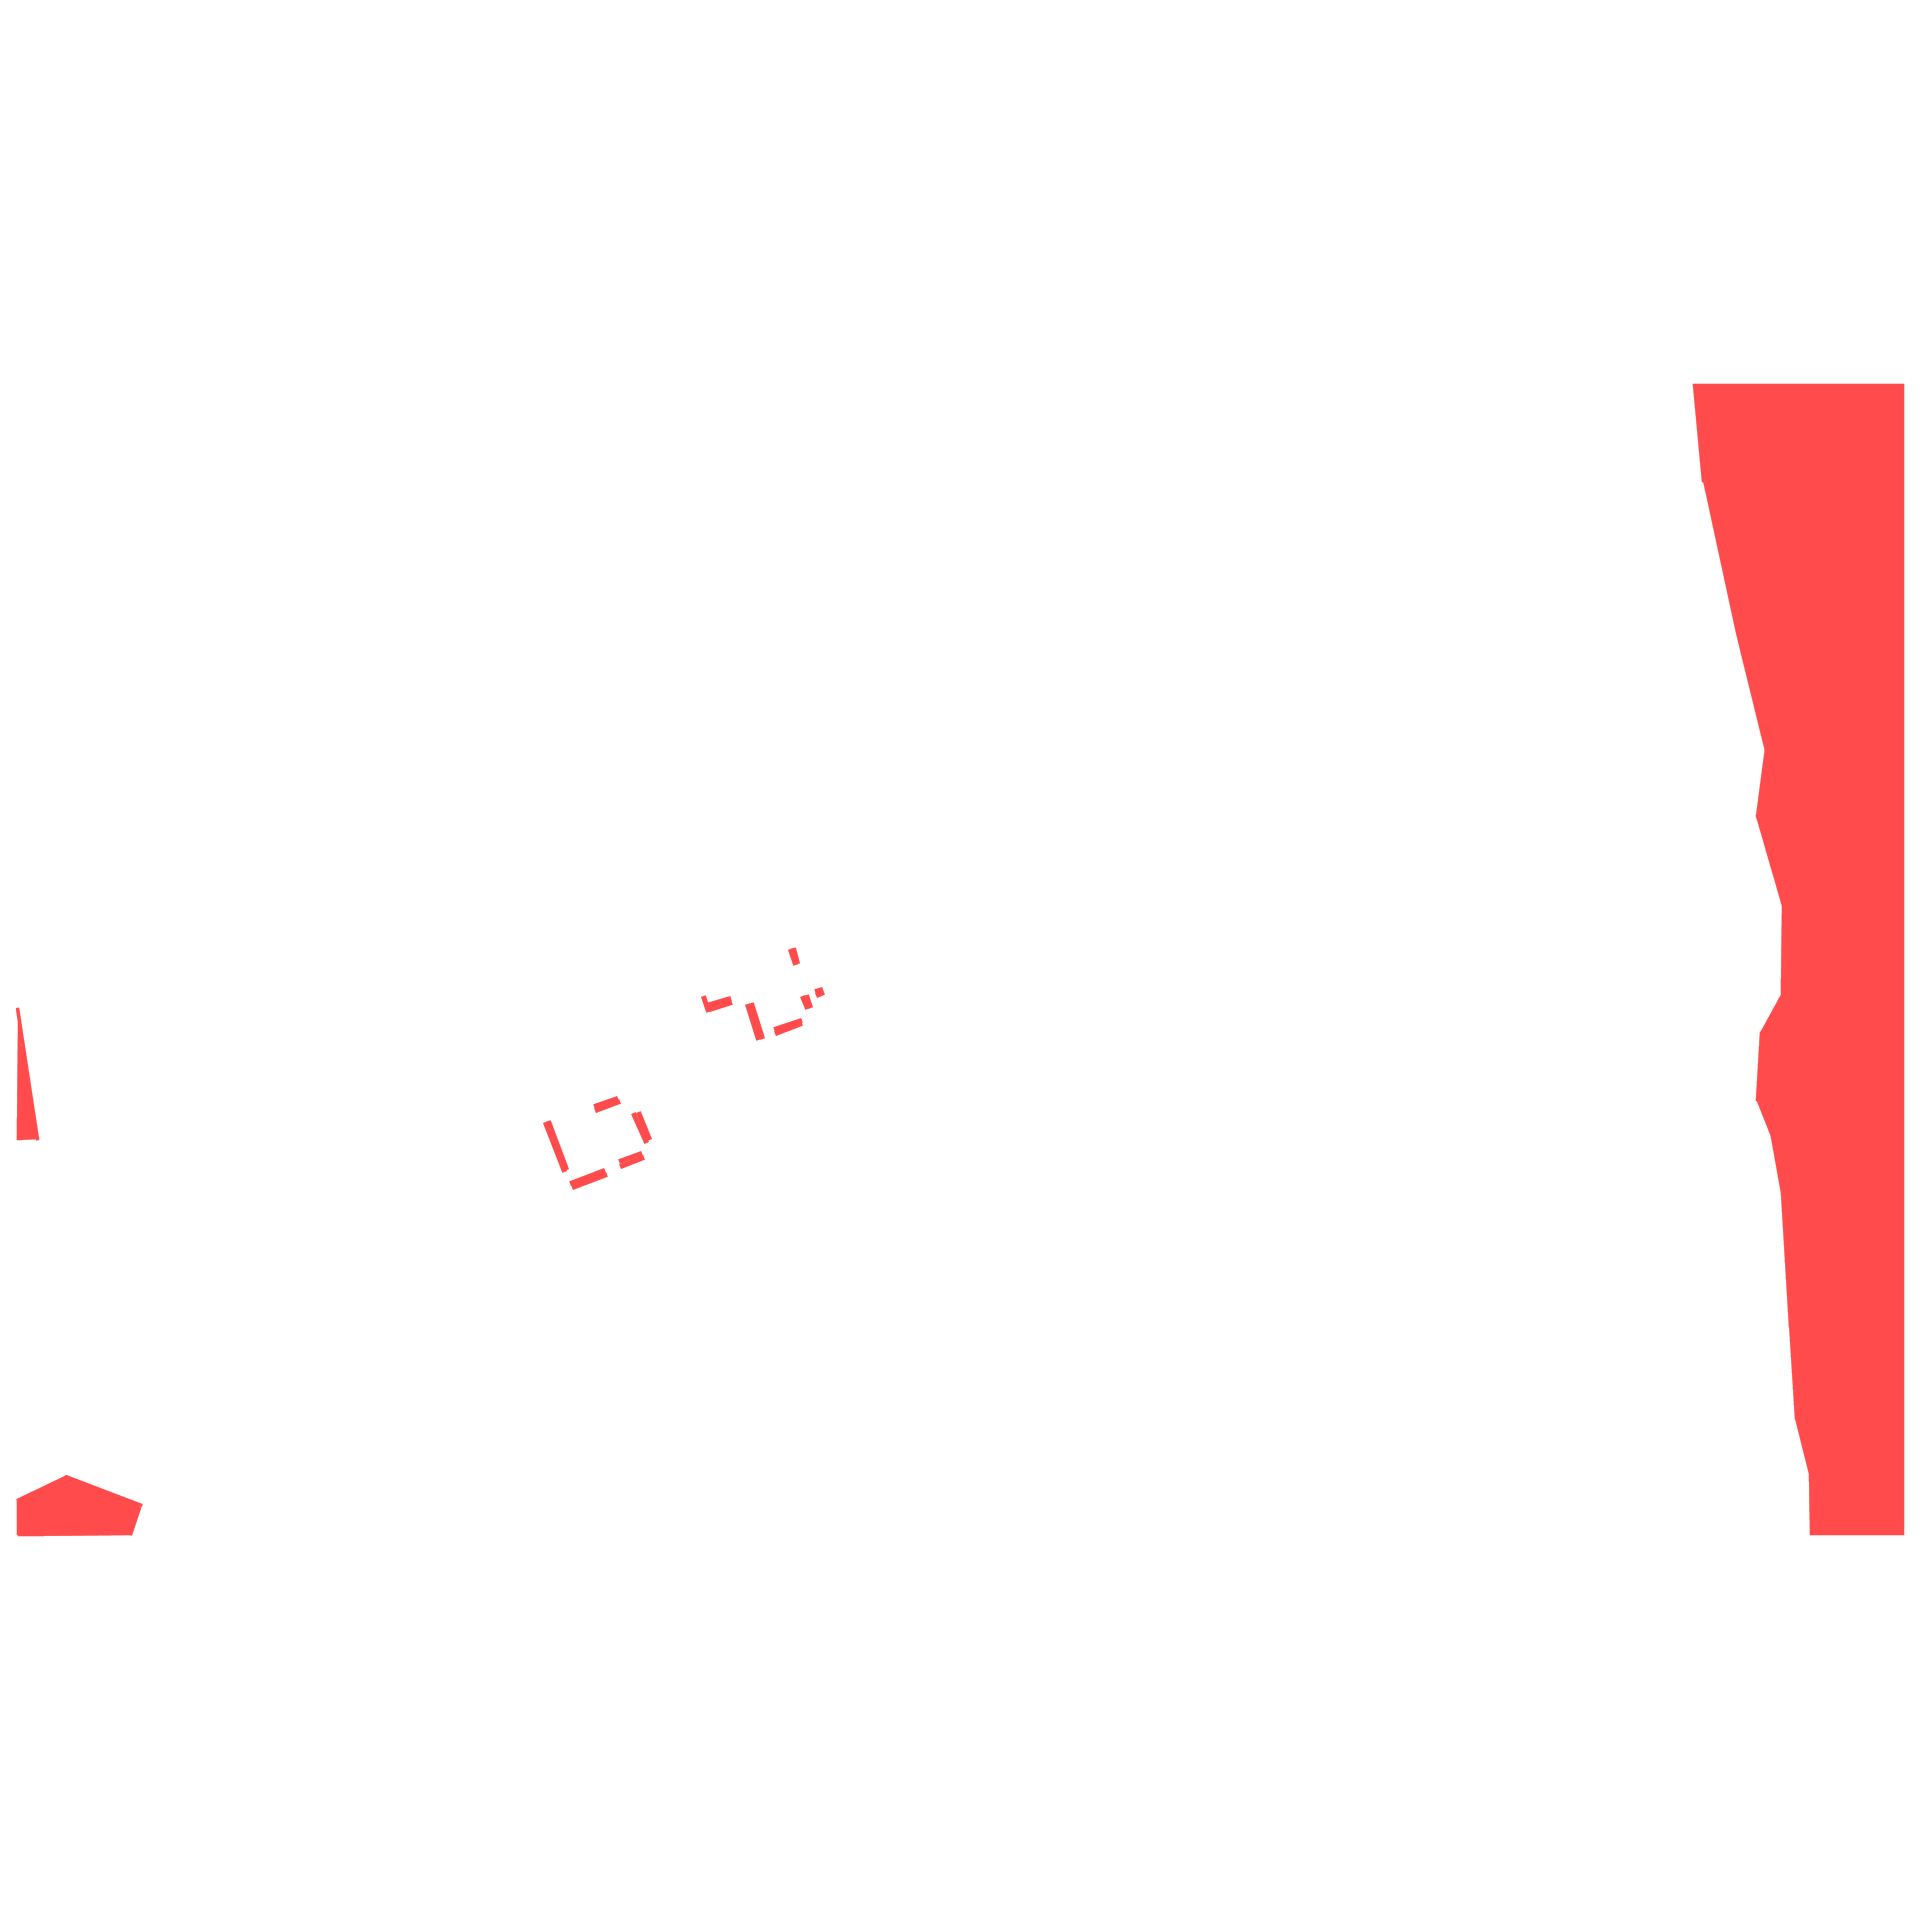
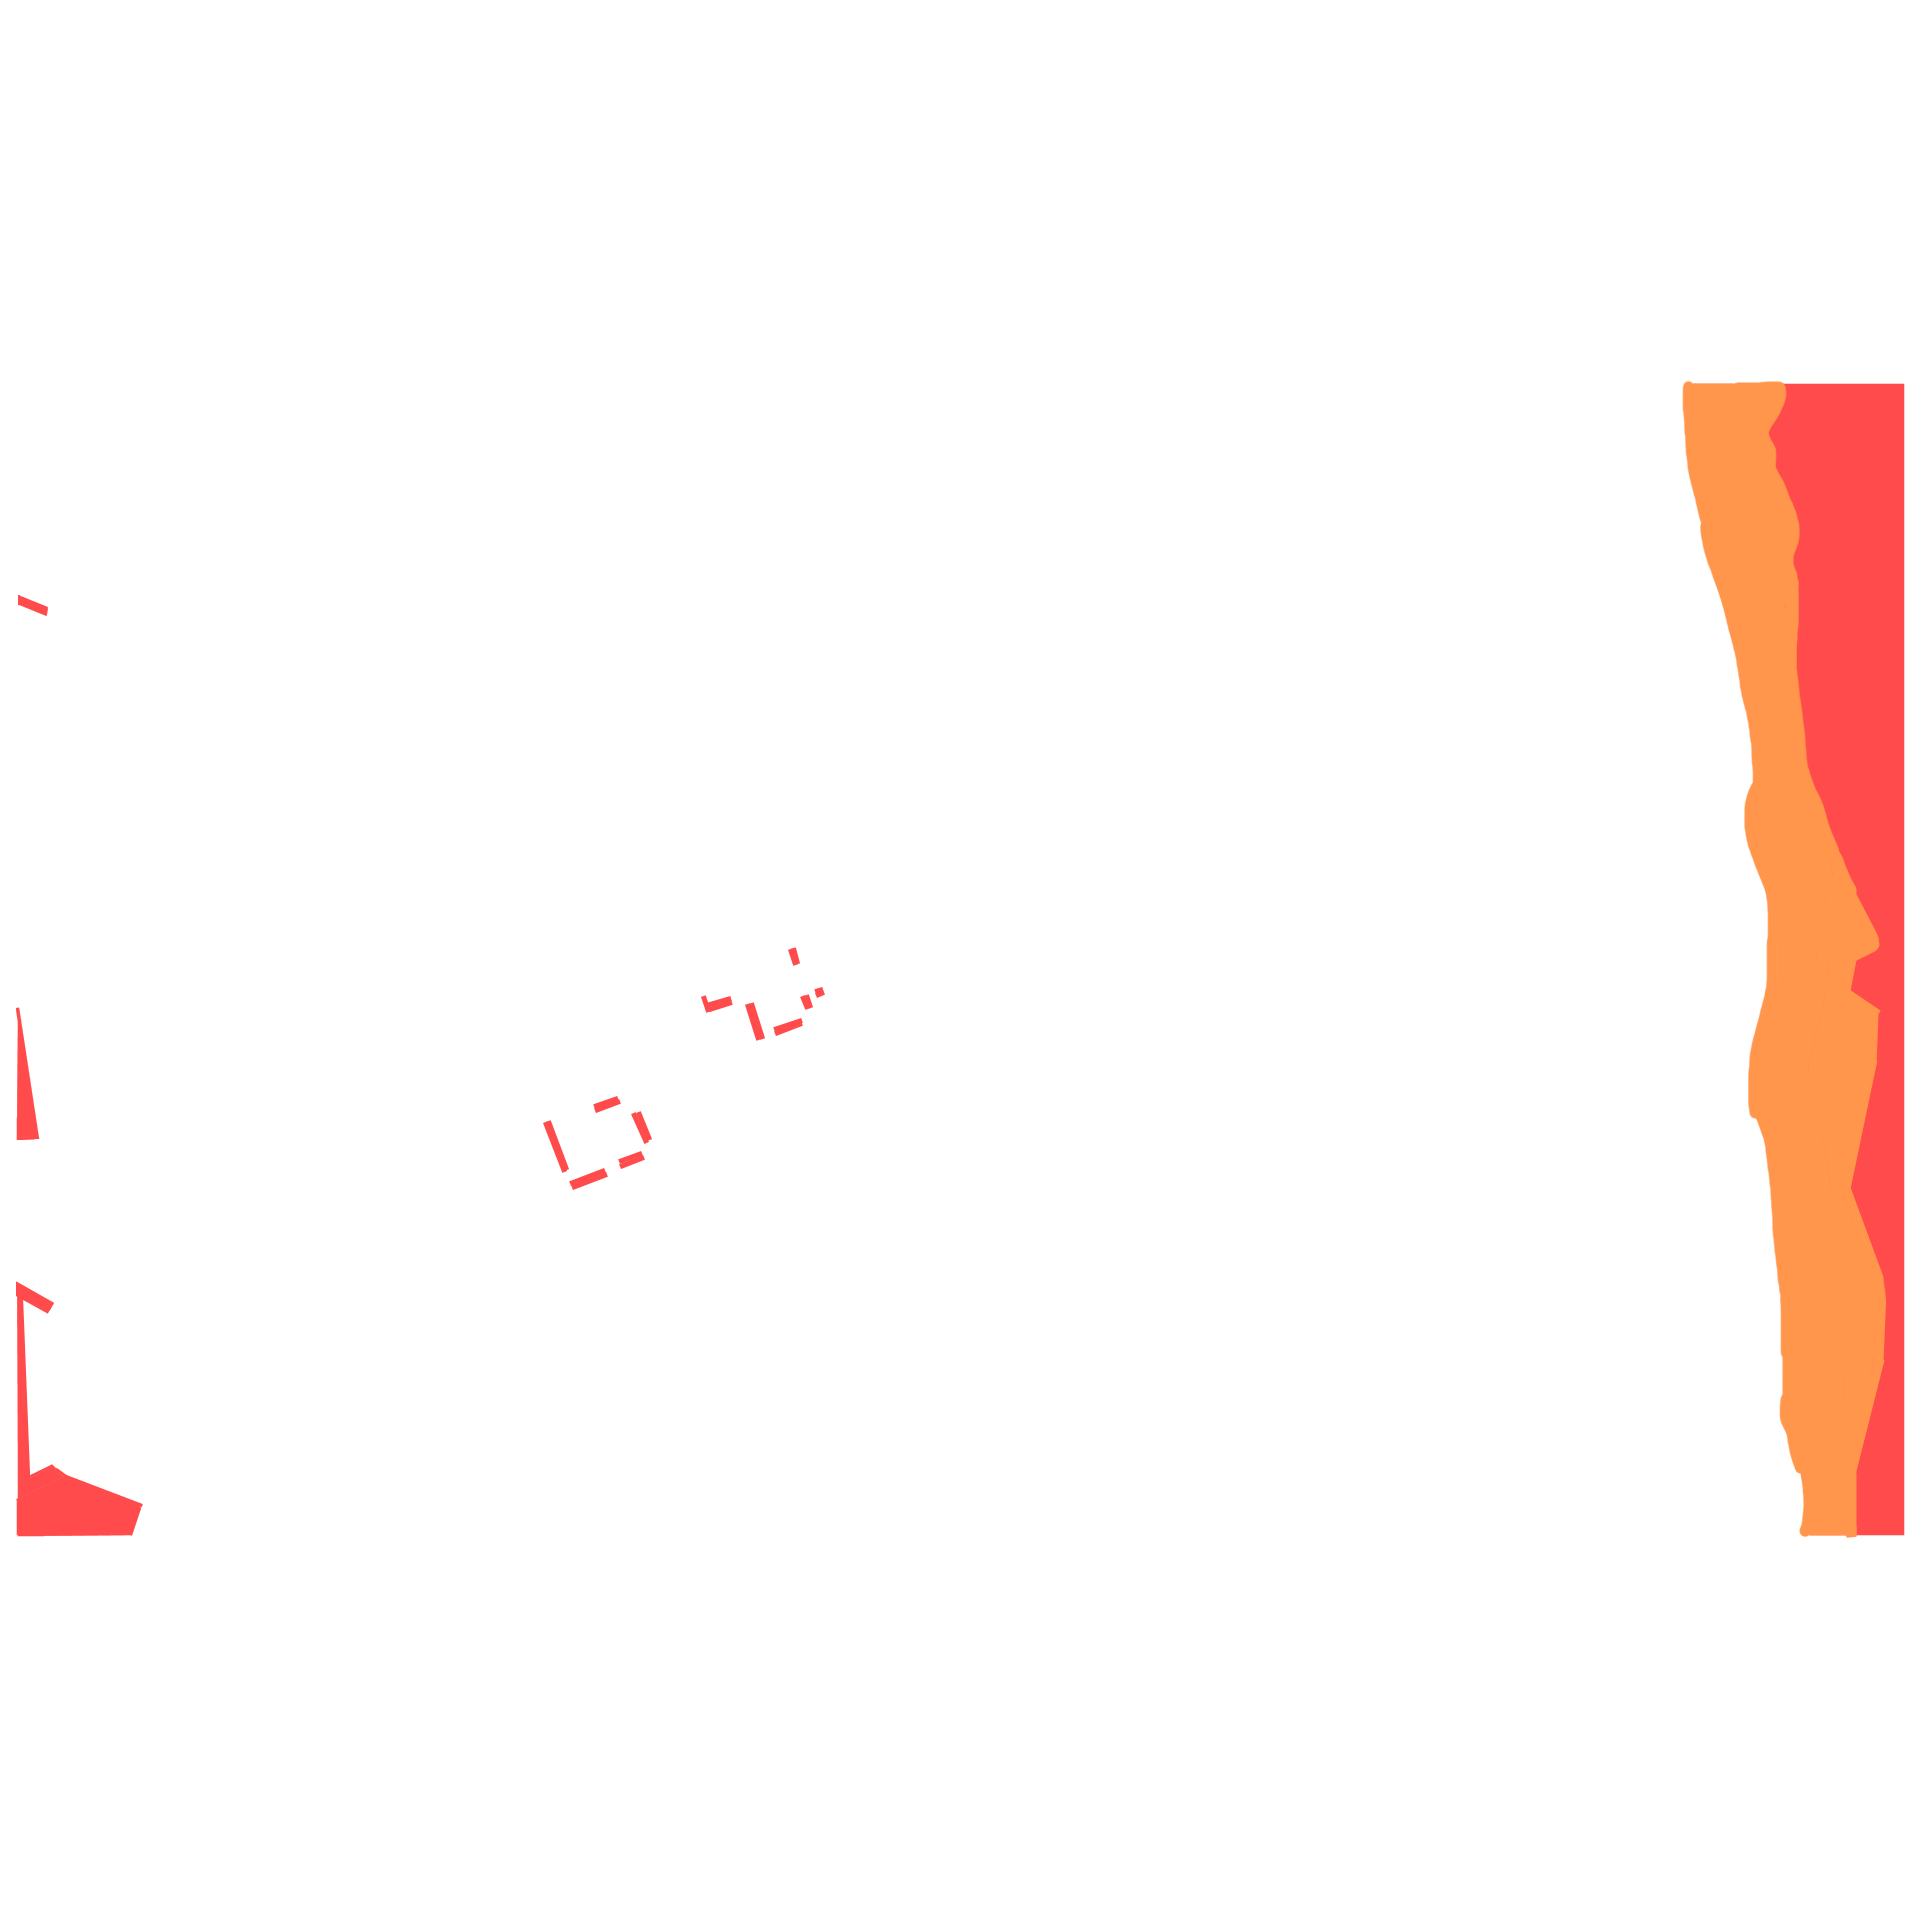
fix phl colors; link ecl; more map accessibility progress

Changed region(s): [[0.875, 0.1875, 1.0, 0.8125], [0.0, 0.6562, 0.0312, 0.7812]]

diff --git a/_layouts/default.html b/_layouts/default.html
@@ -569,6 +569,9 @@
         <li><a target="_blank" href="https://helo-system.de/">
             HeLO System - HLL Competitive Clan Ranking
         </a></li>
+        <li><a target="_blank" href="https://hll-ecl.eu/">
+            ECL - European Community League
+        </a></li>
         <li><a target="_blank" href="https://hellletloose.fandom.com/wiki/Hell_Let_Loose_Wiki">
             Hell Let Loose Wiki (not up to date)
         </a></li>
